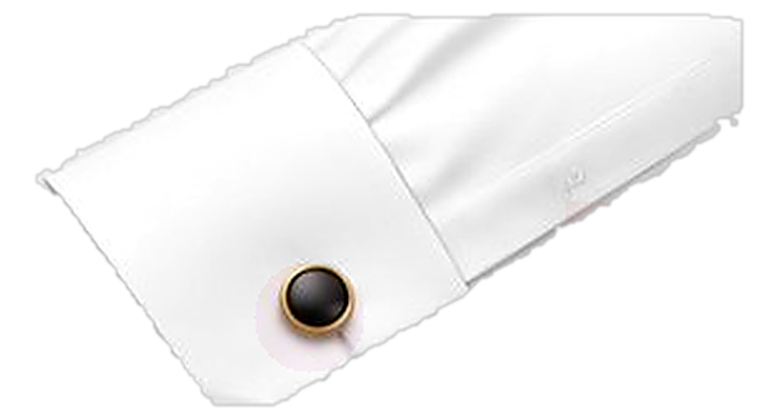
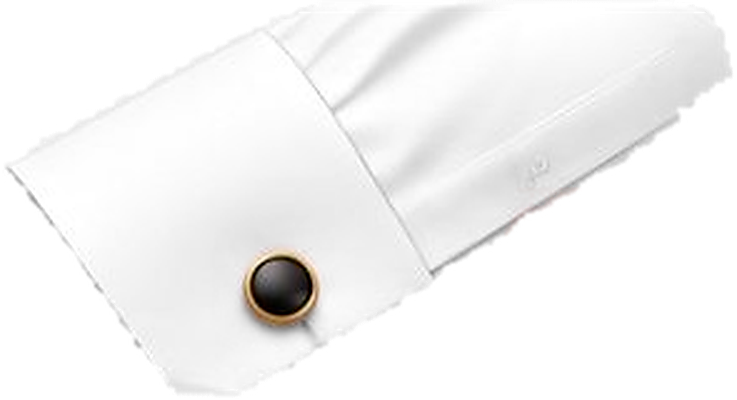
feat: implement CustomizationModal component for shirt sizing and styling

diff --git a/src/components/CustomizationModal.tsx b/src/components/CustomizationModal.tsx
@@ -158,14 +158,14 @@ const CUFF_OPTIONS = [
     title: "CLASSIC CUFF",
     badge: "CLASSIC CUFF",
     matchKeys: ["CLASSIC", "BARREL"],
-    image: "/customizer/cuff_style_classic.png?v=6",
+    image: "/customizer/cuff_style_classic.png?v=7",
   },
   {
     id: "cufflink",
     title: "CUFFLINK CUFF (DOUBLE FOLD)",
     badge: "CUFFLINK CUFF\n(DOUBLE FOLD)",
     matchKeys: ["CUFFLINK", "FRENCH", "DOUBLE"],
-    image: "/customizer/cuff_style_cufflink.png?v=6",
+    image: "/customizer/cuff_style_cufflink.png?v=7",
   },
 ];
 
@@ -1306,29 +1306,34 @@ export default function CustomizationModal({
                             SELECT THREAD COLOR
                           </label>
                           <div className="relative flex items-center">
-                            {/* Color Dot indicator */}
-                            <div
-                              className="w-3 h-3 rounded-full shrink-0 ml-2 mr-[-20px] z-10 border border-black/20 shadow-2xs pointer-events-none"
-                              style={{
-                                backgroundColor:
-                                  customFit.threadColor === "black"
-                                    ? "#14110E"
-                                    : customFit.threadColor === "white"
-                                    ? "#FFFFFF"
-                                    : customFit.threadColor === "gold"
-                                    ? "#B8860B"
-                                    : customFit.threadColor === "burgundy"
-                                    ? "#6B1F2A"
-                                    : customFit.threadColor === "silver"
-                                    ? "#71717A"
-                                    : "#1E40AF",
-                              }}
-                            />
+                            {/* Color Dot indicator (only shown when a color is selected) */}
+                            {customFit.threadColor && (
+                              <div
+                                className="w-3 h-3 rounded-full shrink-0 ml-2.5 mr-[-22px] z-10 border border-black/20 shadow-2xs pointer-events-none"
+                                style={{
+                                  backgroundColor:
+                                    customFit.threadColor === "black"
+                                      ? "#14110E"
+                                      : customFit.threadColor === "white"
+                                      ? "#FFFFFF"
+                                      : customFit.threadColor === "gold"
+                                      ? "#B8860B"
+                                      : customFit.threadColor === "burgundy"
+                                      ? "#6B1F2A"
+                                      : customFit.threadColor === "silver"
+                                      ? "#71717A"
+                                      : "#1E40AF",
+                                }}
+                              />
+                            )}
                             <select
-                              value={customFit.threadColor || "dark_blue"}
+                              value={customFit.threadColor || ""}
                               onChange={(e) => setCustomFit((prev) => ({ ...prev, threadColor: e.target.value }))}
-                              className="w-full bg-white/90 border border-[#D5C2AF] rounded-[8px] pl-6 pr-6 py-1 text-[10px] font-semibold text-[#1F1A17] focus:outline-none focus:border-[#9A5426] focus:ring-1 focus:ring-[#9A5426]/30 shadow-2xs transition-all cursor-pointer appearance-none"
+                              className={`w-full bg-white/90 border border-[#D5C2AF] rounded-[8px] ${
+                                customFit.threadColor ? "pl-6 text-[#1F1A17] font-semibold" : "pl-2.5 text-[#8A796E] font-normal"
+                              } pr-6 py-1 text-[10px] focus:outline-none focus:border-[#9A5426] focus:ring-1 focus:ring-[#9A5426]/30 shadow-2xs transition-all cursor-pointer appearance-none`}
                             >
+                              <option value="">Select Thread Color</option>
                               <option value="dark_blue">Dark Blue (Navy)</option>
                               <option value="black">Classic Black</option>
                               <option value="white">Crisp White</option>
@@ -1439,7 +1444,7 @@ export default function CustomizationModal({
                       {/* Divider Badge with Center Pill */}
                       <div className="flex items-center gap-3 w-full my-1.5 sm:my-2">
                         <div className="h-[1.5px] flex-1 bg-[#8E6F57]" />
-                        <span className="px-5 py-1 rounded-full bg-gradient-to-r from-[#9A5426] via-[#8C471C] to-[#9A5426] text-white text-[9px] sm:text-[9.5px] font-bold tracking-[0.18em] uppercase shadow-[0_2px_6px_rgba(146,76,30,0.25)] shrink-0">
+                        <span className="px-5 py-1 rounded-full bg-[#8A4418] text-white text-[9.5px] sm:text-[10px] font-bold tracking-[0.16em] uppercase shadow-[0_2px_6px_rgba(138,68,24,0.25)] shrink-0 font-serif">
                           YOUR SELECTION SUMMARY
                         </span>
                         <div className="h-[1.5px] flex-1 bg-[#8E6F57]" />
@@ -1448,114 +1453,114 @@ export default function CustomizationModal({
                       {/* 6-Row Specification Strip matching Reference Image */}
                       <div className="rounded-[16px] bg-[#FFF9F3]/95 border border-[#DEC7B2] overflow-hidden divide-y divide-[#EADBCE] shadow-2xs">
                         {/* 1. FABRIC */}
-                        <div className="py-2 px-3 sm:py-2.5 sm:px-3.5 flex items-center gap-3">
-                          <div className="w-[58px] h-[36px] sm:w-[64px] sm:h-[40px] rounded-[8px] overflow-hidden border border-[#DEC7B2] shrink-0 bg-[#F4EDE4] shadow-2xs">
+                        <div className="py-2 px-3 sm:py-2.5 sm:px-3.5 flex items-center gap-3 sm:gap-3.5">
+                          <div className="w-[76px] h-[35px] sm:w-[86px] sm:h-[39px] md:w-[94px] md:h-[42px] rounded-[8px] overflow-hidden border border-[#DEC7B2] shrink-0 bg-[#F4EDE4] shadow-2xs">
                             <img
-                              src="/customizer/review_fabric_thumb.jpg?v=6"
+                              src="/customizer/review_fabric_thumb.jpg?v=7"
                               alt={activeItemName || productName}
                               className="w-full h-full object-cover"
                             />
                           </div>
                           <div className="flex-1 min-w-0">
-                            <span className="text-[9px] sm:text-[9.5px] font-bold tracking-[0.06em] text-[#8A4418] uppercase block leading-tight">
+                            <span className="text-[9.5px] sm:text-[10px] font-bold tracking-[0.08em] text-[#8A4418] uppercase block leading-tight font-serif">
                               1. FABRIC
                             </span>
-                            <span className="text-[11.5px] sm:text-[12px] font-bold text-[#1F1A17] block truncate leading-snug">
+                            <span className="text-[12px] sm:text-[13px] font-bold text-[#1F1A17] block truncate leading-snug font-serif">
                               {getShortShirtTitle(activeItemName || activeItem?.name || productName) || "White Oxford"}
                             </span>
                           </div>
                         </div>
 
                         {/* 2. SIZE & FIT */}
-                        <div className="py-2 px-3 sm:py-2.5 sm:px-3.5 flex items-center gap-3">
-                          <div className="w-[58px] h-[36px] sm:w-[64px] sm:h-[40px] rounded-[8px] overflow-hidden border border-[#DEC7B2] shrink-0 bg-[#F4EDE4] shadow-2xs">
+                        <div className="py-2 px-3 sm:py-2.5 sm:px-3.5 flex items-center gap-3 sm:gap-3.5">
+                          <div className="w-[76px] h-[35px] sm:w-[86px] sm:h-[39px] md:w-[94px] md:h-[42px] rounded-[8px] overflow-hidden border border-[#DEC7B2] shrink-0 bg-[#F4EDE4] shadow-2xs">
                             <img
-                              src="/customizer/review_shirt_thumb.png?v=6"
+                              src="/customizer/review_shirt_thumb.png?v=7"
                               alt="Size & Fit"
                               className="w-full h-full object-cover"
                             />
                           </div>
                           <div className="flex-1 min-w-0">
-                            <span className="text-[9px] sm:text-[9.5px] font-bold tracking-[0.06em] text-[#8A4418] uppercase block leading-tight">
+                            <span className="text-[9.5px] sm:text-[10px] font-bold tracking-[0.08em] text-[#8A4418] uppercase block leading-tight font-serif">
                               2. SIZE & FIT
                             </span>
-                            <span className="text-[11.5px] sm:text-[12px] font-bold text-[#1F1A17] block leading-snug">
-                              Chest Size: {customFit.chestSize > 0 ? customFit.chestSize : 40}&quot; &nbsp;&nbsp;|&nbsp;&nbsp; {customFit.bodyFit === "lean" ? "Lean Fit" : customFit.bodyFit === "regular" ? "Regular Fit" : "Tummy Comfort Fit"}
+                            <span className="text-[12px] sm:text-[13px] font-bold text-[#1F1A17] block leading-snug font-serif">
+                              Chest Size: {customFit.chestSize > 0 ? customFit.chestSize : 40}&quot;<span className="font-normal text-[#A68B76] px-1.5 sm:px-2">|</span>{customFit.bodyFit === "lean" ? "Lean Fit" : customFit.bodyFit === "regular" ? "Regular Fit" : "Tummy Comfort Fit"}
                             </span>
                           </div>
                         </div>
 
                         {/* 3. HEIGHT */}
-                        <div className="py-2 px-3 sm:py-2.5 sm:px-3.5 flex items-center gap-3">
-                          <div className="w-[58px] h-[36px] sm:w-[64px] sm:h-[40px] rounded-[8px] overflow-hidden border border-[#DEC7B2] shrink-0 bg-[#F4EDE4] shadow-2xs">
+                        <div className="py-2 px-3 sm:py-2.5 sm:px-3.5 flex items-center gap-3 sm:gap-3.5">
+                          <div className="w-[76px] h-[35px] sm:w-[86px] sm:h-[39px] md:w-[94px] md:h-[42px] rounded-[8px] overflow-hidden border border-[#DEC7B2] shrink-0 bg-[#F4EDE4] shadow-2xs">
                             <img
-                              src="/customizer/review_height_thumb.png?v=6"
+                              src="/customizer/review_height_thumb.png?v=7"
                               alt="Height Category"
                               className="w-full h-full object-cover"
                             />
                           </div>
                           <div className="flex-1 min-w-0">
-                            <span className="text-[9px] sm:text-[9.5px] font-bold tracking-[0.06em] text-[#8A4418] uppercase block leading-tight">
+                            <span className="text-[9.5px] sm:text-[10px] font-bold tracking-[0.08em] text-[#8A4418] uppercase block leading-tight font-serif">
                               3. HEIGHT
                             </span>
-                            <span className="text-[11.5px] sm:text-[12px] font-bold text-[#1F1A17] block leading-snug">
+                            <span className="text-[12px] sm:text-[13px] font-bold text-[#1F1A17] block leading-snug font-serif">
                               {getHeightCleanTitle(customFit.height) || "Tall Height"} ({getHeightMeta(customFit.height).heightRangeFormatted || '5.8" to 5.10"'})
                             </span>
                           </div>
                         </div>
 
                         {/* 4. SLEEVE */}
-                        <div className="py-2 px-3 sm:py-2.5 sm:px-3.5 flex items-center gap-3">
-                          <div className="w-[58px] h-[36px] sm:w-[64px] sm:h-[40px] rounded-[8px] overflow-hidden border border-[#DEC7B2] shrink-0 bg-[#F4EDE4] shadow-2xs">
+                        <div className="py-2 px-3 sm:py-2.5 sm:px-3.5 flex items-center gap-3 sm:gap-3.5">
+                          <div className="w-[76px] h-[35px] sm:w-[86px] sm:h-[39px] md:w-[94px] md:h-[42px] rounded-[8px] overflow-hidden border border-[#DEC7B2] shrink-0 bg-[#F4EDE4] shadow-2xs">
                             <img
-                              src="/customizer/review_sleeve_thumb.png?v=6"
+                              src="/customizer/review_sleeve_thumb.png?v=7"
                               alt="Sleeve"
                               className="w-full h-full object-cover"
                             />
                           </div>
                           <div className="flex-1 min-w-0">
-                            <span className="text-[9px] sm:text-[9.5px] font-bold tracking-[0.06em] text-[#8A4418] uppercase block leading-tight">
+                            <span className="text-[9.5px] sm:text-[10px] font-bold tracking-[0.08em] text-[#8A4418] uppercase block leading-tight font-serif">
                               4. SLEEVE
                             </span>
-                            <span className="text-[11.5px] sm:text-[12px] font-bold text-[#1F1A17] block capitalize leading-snug">
+                            <span className="text-[12px] sm:text-[13px] font-bold text-[#1F1A17] block capitalize leading-snug font-serif">
                               {customFit.sleeveType === "half" ? "Half Sleeves" : "Full Sleeves"}
                             </span>
                           </div>
                         </div>
 
                         {/* 5. COLLAR & CUFF */}
-                        <div className="py-2 px-3 sm:py-2.5 sm:px-3.5 flex items-center gap-3">
-                          <div className="w-[58px] h-[36px] sm:w-[64px] sm:h-[40px] rounded-[8px] overflow-hidden border border-[#DEC7B2] shrink-0 bg-[#F4EDE4] shadow-2xs">
+                        <div className="py-2 px-3 sm:py-2.5 sm:px-3.5 flex items-center gap-3 sm:gap-3.5">
+                          <div className="w-[76px] h-[35px] sm:w-[86px] sm:h-[39px] md:w-[94px] md:h-[42px] rounded-[8px] overflow-hidden border border-[#DEC7B2] shrink-0 bg-[#F4EDE4] shadow-2xs">
                             <img
-                              src="/customizer/review_collar_thumb.png?v=6"
+                              src="/customizer/review_collar_thumb.png?v=7"
                               alt="Collar"
                               className="w-full h-full object-cover"
                             />
                           </div>
                           <div className="flex-1 min-w-0">
-                            <span className="text-[9px] sm:text-[9.5px] font-bold tracking-[0.06em] text-[#8A4418] uppercase block leading-tight">
+                            <span className="text-[9.5px] sm:text-[10px] font-bold tracking-[0.08em] text-[#8A4418] uppercase block leading-tight font-serif">
                               5. COLLAR & CUFF
                             </span>
-                            <span className="text-[11.5px] sm:text-[12px] font-bold text-[#1F1A17] block truncate leading-snug">
-                              {customFit.collarStyle ? customFit.collarStyle.replace(/COLLAR/gi, "").trim() + " Collar" : "Cutaway Collar"} &nbsp;&nbsp;|&nbsp;&nbsp; {customFit.cuffStyle ? customFit.cuffStyle.replace(/\(DOUBLE FOLD\)/gi, "").trim() : "Classic Cuff"}
+                            <span className="text-[12px] sm:text-[13px] font-bold text-[#1F1A17] block truncate leading-snug font-serif">
+                              {customFit.collarStyle ? customFit.collarStyle.replace(/COLLAR/gi, "").trim() + " Collar" : "Cutaway Collar"}<span className="font-normal text-[#A68B76] px-1.5 sm:px-2">|</span>{customFit.cuffStyle ? customFit.cuffStyle.replace(/\(DOUBLE FOLD\)/gi, "").trim() : "Classic Cuff"}
                             </span>
                           </div>
                         </div>
 
                         {/* 6. INITIALS */}
-                        <div className="py-2 px-3 sm:py-2.5 sm:px-3.5 flex items-center gap-3">
-                          <div className="w-[58px] h-[36px] sm:w-[64px] sm:h-[40px] rounded-[8px] overflow-hidden border border-[#DEC7B2] shrink-0 bg-[#F4EDE4] shadow-2xs">
+                        <div className="py-2 px-3 sm:py-2.5 sm:px-3.5 flex items-center gap-3 sm:gap-3.5">
+                          <div className="w-[76px] h-[35px] sm:w-[86px] sm:h-[39px] md:w-[94px] md:h-[42px] rounded-[8px] overflow-hidden border border-[#DEC7B2] shrink-0 bg-[#F4EDE4] shadow-2xs">
                             <img
-                              src="/customizer/review_monogram_thumb.png?v=6"
+                              src="/customizer/review_monogram_thumb.png?v=7"
                               alt="Monogram Initials"
                               className="w-full h-full object-cover"
                             />
                           </div>
                           <div className="flex-1 min-w-0">
-                            <span className="text-[9px] sm:text-[9.5px] font-bold tracking-[0.06em] text-[#8A4418] uppercase block leading-tight">
+                            <span className="text-[9.5px] sm:text-[10px] font-bold tracking-[0.08em] text-[#8A4418] uppercase block leading-tight font-serif">
                               6. INITIALS
                             </span>
-                            <span className="text-[11.5px] sm:text-[12px] font-bold text-[#1F1A17] block leading-snug">
+                            <span className="text-[12px] sm:text-[13px] font-bold text-[#1F1A17] block leading-snug font-serif">
                               {customFit.initials ? (
                                 `${customFit.initials} (${
                                   customFit.threadColor === "black"

diff --git a/src/data/products.ts b/src/data/products.ts
@@ -108,7 +108,7 @@ export const USER_CATALOG_SHIRTS: ProductItem[] = [
   {
     id: 51,
     slug: "dark-chocolate-brown-satin-twill-shirt",
-    name: "BOARDROOM CHARCOAL OXFORD DRESS SHIRT",
+    name: "DARK CHOCOLATE BROWN SATIN TWILL SHIRT",
     category: "formal_shirts",
     price: "₹ 2,600",
     rawPrice: 2600,
@@ -130,7 +130,7 @@ export const USER_CATALOG_SHIRTS: ProductItem[] = [
   {
     id: 49,
     slug: "coral-red-bold-bengal-stripe-twill-shirt",
-    name: "BRITISH BANKER FINE PINSTRIPE DRESS SHIRT",
+    name: "CORAL RED BOLD BENGAL STRIPE TWILL SHIRT",
     category: "formal_stripes",
     price: "₹ 2,600",
     rawPrice: 2600,
@@ -152,7 +152,7 @@ export const USER_CATALOG_SHIRTS: ProductItem[] = [
   {
     id: 50,
     slug: "beige-textured-linen-cotton-shirt",
-    name: "SAVILE ROW PURE WHITE POPLIN SHIRT",
+    name: "BEIGE TEXTURED LINEN COTTON SHIRT",
     category: "formal_shirts",
     price: "₹ 2,600",
     rawPrice: 2600,
@@ -174,7 +174,7 @@ export const USER_CATALOG_SHIRTS: ProductItem[] = [
   {
     id: 53,
     slug: "pure-white-executive-pinpoint-oxford-shirt",
-    name: "CRISP EXECUTIVE WHITE TWILL SHIRT",
+    name: "PURE WHITE EXECUTIVE PINPOINT OXFORD SHIRT",
     category: "formal_shirts",
     price: "₹ 2,600",
     rawPrice: 2600,
@@ -196,7 +196,7 @@ export const USER_CATALOG_SHIRTS: ProductItem[] = [
   {
     id: 54,
     slug: "navy-blue-fine-pinstripe-formal-shirt",
-    name: "CLASSIC FRENCH CUFF SKY BLUE STRIPE",
+    name: "NAVY BLUE FINE PINSTRIPE FORMAL SHIRT",
     category: "formal_stripes",
     price: "₹ 2,600",
     rawPrice: 2600,

diff --git a/src/content/sections/aboutPage.ts b/src/content/sections/aboutPage.ts
@@ -37,7 +37,7 @@ export const aboutPage = {
         tagline: "100% Egyptian Giza 140s Cotton",
         description:
           "Individually cut to your posture with 22 stitches per inch, split yoke construction, and hand-shanked Australian mother-of-pearl buttons. Choose from over 15 collar, cuff, and monogram styles.",
-        image: "/prod_classic_white.jpg",
+        image: "/shirt_classic_white.jpg",
         link: "/custom-shirt",
         buttonText: "CUSTOMIZE SHIRT",
         highlights: ["Split 45° Yoke", "Mother-of-Pearl", "22 SPI Single-Needle"],

diff --git a/src/lib/matchingFullShirt.ts b/src/lib/matchingFullShirt.ts
@@ -130,7 +130,6 @@ function resolveRawShirtPath(item: MatchableItem): string {
     (text.includes("sky blue") ||
       text.includes("french cuff") ||
       text.includes("mist blue") ||
-      img.includes("french_cuff_blue") ||
       img.includes("mist-blue"))
   ) {
     return "/customizer/shirt_model_skyblue.png";
